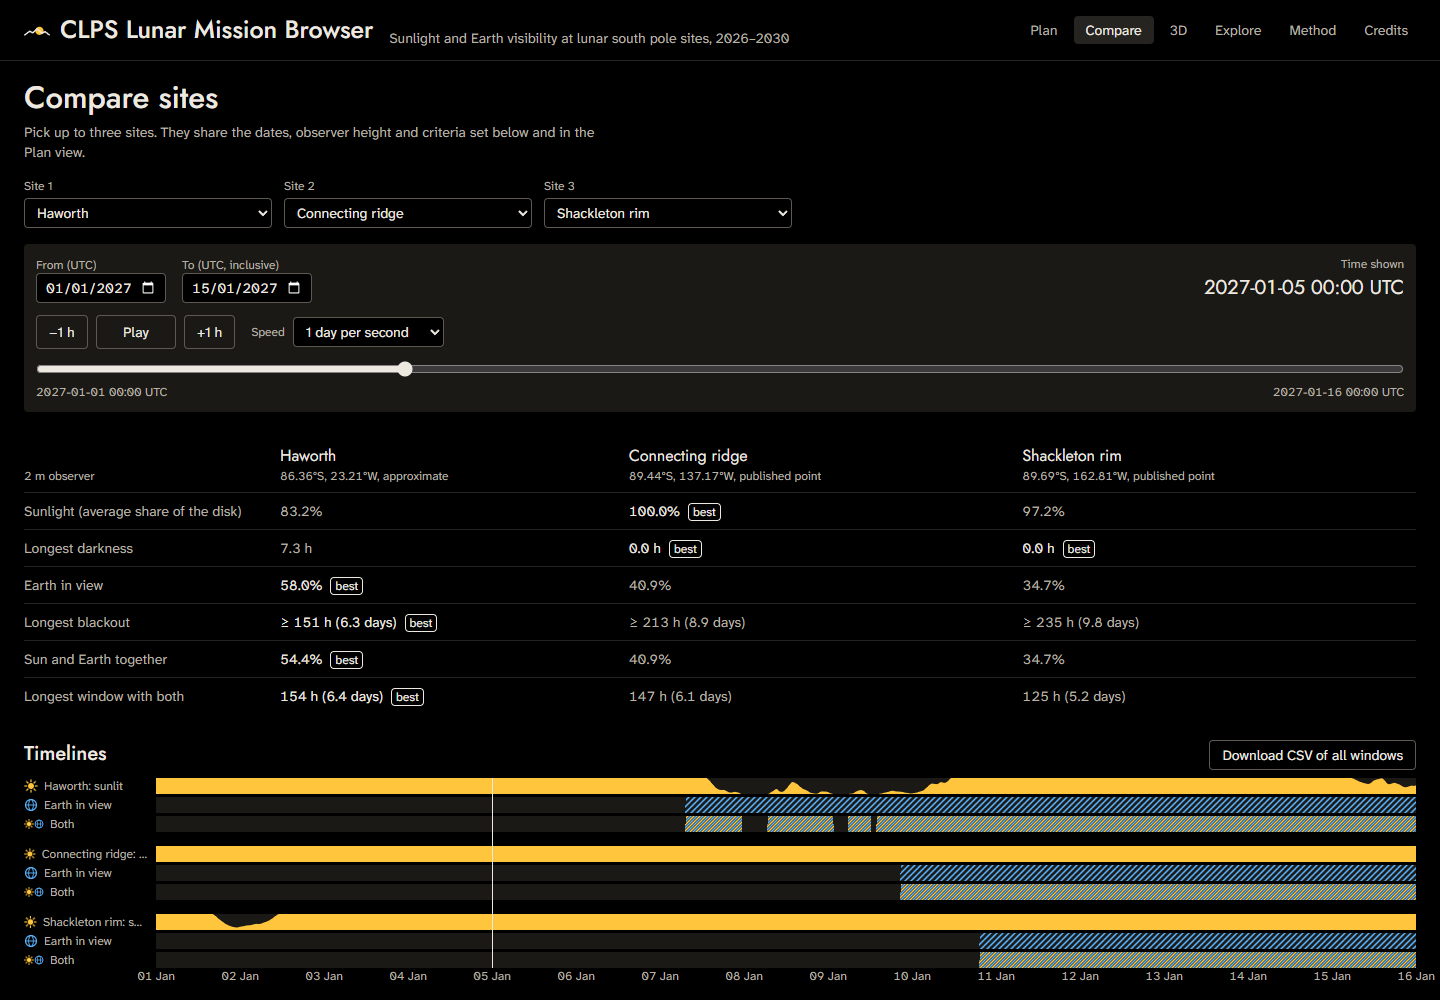
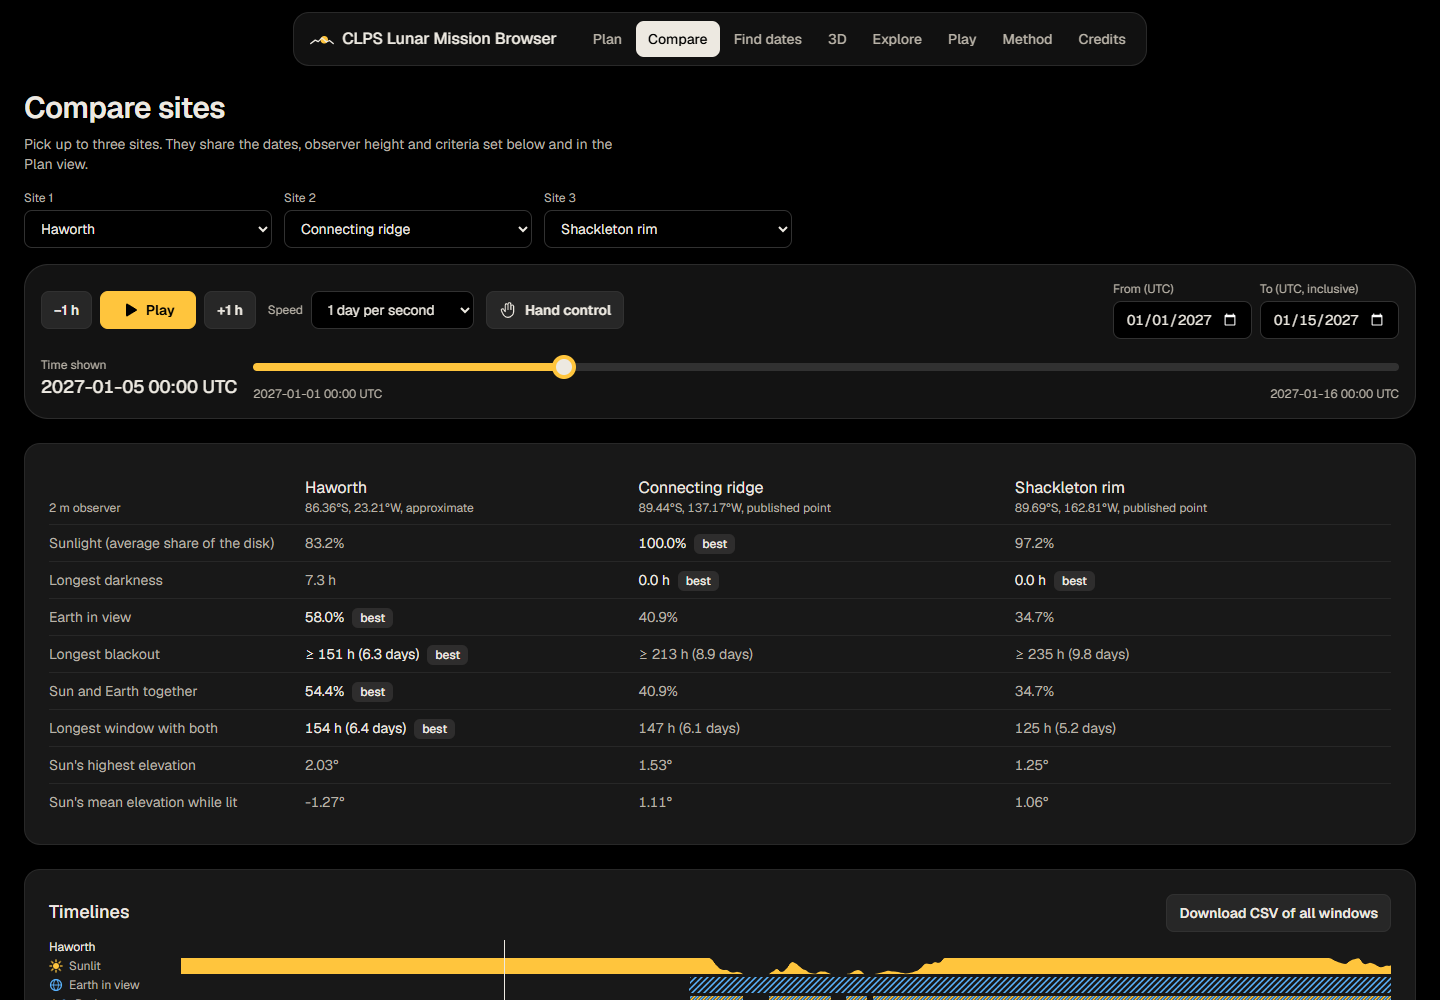
Retake the README screenshots from the redesign; note the deploy
The seven README pictures now show the redesigned site (same pages,
dates and links). The Plan picture includes the new At a glance card,
so its caption and alt text say so. HANDOFF.md records that the
redesign is live in production, and AI_USAGE.md logs the deploy and
the screenshots.

diff --git a/HANDOFF.md b/HANDOFF.md
@@ -1,4 +1,4 @@
-# Handoff: 15 November 2026, 16:40 (UTC+8)
+# Handoff: 15 November 2026, 17:25 (UTC+8)
 
 Written on the second computer (the one with a camera). This file is everything the next Claude session needs; [CLAUDE.md](CLAUDE.md) has the standing rules.
 
@@ -8,7 +8,7 @@ Written on the second computer (the one with a camera). This file is everything 
 - **Link for the "Link to Project Demo" field** (plays in the browser, no sign-in, pinned to commit `48e0071`): https://cdn.jsdelivr.net/gh/BroBYW/CLPS-Lunar-Mission-Website@48e0071/docs/demo/CLPS-demo-30s.mp4. GitHub's own file page won't play a file this size; it only offers a download.
 - Space Apps SI rules: the video has a visible "SI-assisted" watermark and an SI disclosure in its metadata (the voice is Microsoft neural text-to-speech; the music was synthesised in code). Say the same in the submission's SI field.
 - Team **Luosifen**, challenge **Lunar Landing Site Navigator**: https://www.spaceappschallenge.org/2026/find-a-team/luosifen/?tab=project
-- The video shows the redesigned site, so production must serve the redesign (see below).
+- The video shows the redesigned site, which production now serves (see below).
 - The scripts that made it (Playwright screencast, edge-tts, numpy music, ffmpeg) were in a temporary folder and are not in the repository.
 
 ## Deadline
@@ -17,9 +17,10 @@ Written on the second computer (the one with a camera). This file is everything 
 
 ## Where things stand
 
-- GitHub `main` = `dev` = the commit that adds this file. Pushes don't deploy (Vercel isn't linked to GitHub).
-- This commit adds the **redesign** (Geist type, solid buttons, cards, floating nav, docked time bar), the **newcomer changes** (the home button leads into the guided story; the Plan view opens with an "At a glance" card; expert panels fold under "Show more details") and the **fun changes** (a hand control button in story step 1; home cards for hand control and the lunar night game). AI_USAGE.md has the details.
-- Deploy it with a new preview from `web/` and promote that preview with the user's OK; older previews don't have the redesign.
+- GitHub `main` = `dev`. Pushes don't deploy (Vercel isn't linked to GitHub).
+- **Live:** the redesign is in production. Preview `clps-lunar-mission-browser-4yhj4m2gg-alvin-s.vercel.app` (commit `e4d7fab`) was checked and promoted at 17:07 (UTC+8) from Alvin's Vercel account. The live site serves the same build, data files and hand model; no console errors.
+- The README screenshots were retaken from the redesign (same pages, dates and links as before).
+- Commit `e4d7fab` added the **redesign** (Geist type, solid buttons, cards, floating nav, docked time bar), the **newcomer changes** (the home button leads into the guided story; the Plan view opens with an "At a glance" card; expert panels fold under "Show more details") and the **fun changes** (a hand control button in story step 1; home cards for hand control and the lunar night game). AI_USAGE.md has the details.
 - Hand control passed an automated check (MediaPipe's hand photos through a fake camera) but **has not been tried with a real hand** yet.
 
 ## Hand control (new, needs a real camera test)
@@ -74,7 +75,6 @@ Known limits: one hand only; needs reasonable light; detection runs on the main 
 
 ## Next steps, in order
 
-1. Deploy a preview of this commit, check it, and promote it to production with the user's OK. Check the live site afterwards.
-2. The user fills in the Space Apps project page (all in English): the demo link above, the live site as the final project, the SI field, NASA data. Then **Submit for Judging** before 21:00 (UTC+8); the official close is 23:59 local event time.
-3. If there's time: the user tries hand control with a real hand (checklist above) and it gets tuned.
-4. Add rows to AI_USAGE.md for any further AI-assisted work.
+1. The user fills in the Space Apps project page (all in English): the demo link above, the live site as the final project, the SI field, NASA data. Then **Submit for Judging** before 21:00 (UTC+8); the official close is 23:59 local event time.
+2. If there's time: the user tries hand control with a real hand (checklist above) and it gets tuned. Any later change needs a new preview from `web/` (this computer's Vercel CLI is signed in to Alvin's account) and a promote with the user's OK.
+3. Add rows to AI_USAGE.md for any further AI-assisted work.

diff --git a/AI_USAGE.md b/AI_USAGE.md
@@ -37,3 +37,4 @@ This project was built with help from Claude (Anthropic), running in Claude Code
 | 2026-11-15 | Made the site easier for newcomers after the team found it hard to follow: the home page button now leads into the six step guided story (Explore) for everyone, and its last step opens the planner; the Plan view opens with an "At a glance" card that says in plain words how often the Sun is up and Earth is in view, how long the longest darkness lasts and when the best landing window is (with a button that jumps to it), and a link to the tour; the expert panels (metrics, DSN, power, mast, LRO photos, shadow movie, landing and eclipse replays) fold under "Show more details", remembered per browser, with `more=1` in a link to open them. Also ran an automated hand control check, feeding MediaPipe's hand photos through a fake camera: grab, both directions, fist hold and release all behaved as designed; the 3D view runs at about 17 fps while dragging on an Intel Iris Xe | The team asked for these and chose the three changes |
 | 2026-11-15 | Made the site more playful after the team asked whether it was fun yet: the first step of the guided story now has a "Move the Sun with your hand" button next to "Play the month", so hand control is the story's first surprise; the home page ends with two picture cards, "Move the Sun with your hand" (shown only where a camera can be used) and "Survive a lunar night", that open those directly; hand control now works from any view and turns off on the home page. Also fixed new views opening at the previous view's scroll position, and moved the camera panel clear of the skyline chart in the story. Checked typecheck, the unit tests, the production build, and the views at 1440 and 390 px wide | The team asked for this and chose the two changes |
 | 2026-11-15 | Made the 30-second demo video, following the Space Apps demo guide (project, challenge, idea and NASA data, future). Scripted headless Chrome to click through the production build (title card, the dive to the pole, the story's month playing, the Plan view's plain answer, the 3D terrain with moving shadows, an LRO photo against the model, Compare, end card), drew English captions into the page, and joined the shots with ffmpeg into a 29.15 s, 1080p, 30 fps MP4. The voice-over is synthetic: Microsoft's neural voice "Andrew" (the Edge Read Aloud service), cut to the shot timings, with the captions matching each spoken line. The background music is original, synthesised in code for this video (an ambient pad in D major with a plucked arpeggio; no samples or third-party music), and ducks under the voice. Following the Space Apps SI rules, the video carries a visible "SI-assisted" watermark and an SI disclosure in its metadata; the title card names Team Luosifen and the Lunar Landing Site Navigator challenge. Published at docs/demo/CLPS-demo-30s.mp4 and checked to play signed out | The team asked for the video, then for a voice-over and background music (choosing the neural voice), then for it to be hosted on GitHub; they chose the English version for the submission |
+| 2026-11-15 | Deployed the redesign: a new Vercel preview from `web/`, checked against the local build (same JavaScript and CSS, data files and hand model byte for byte), then promoted to production after the user's OK and checked again on the live site. Retook the seven README screenshots from the redesign with headless Chrome on the production build (same pages, dates and links as before; the 3D shots aimed by script), and updated the Plan picture's caption for the new "At a glance" card | Had Alvin approve the Vercel sign-in on his account; approved the promote; asked for the new screenshots |

diff --git a/README.md b/README.md
@@ -36,8 +36,8 @@ Click a picture to open that view on the live site.
 <table>
   <tr>
     <td width="50%" valign="top">
-      <a href="https://clps-lunar-mission-browser.vercel.app/?site=connecting-ridge&amp;from=2027-01-01&amp;to=2027-01-30&amp;t=2027-01-12T06:00Z&amp;h=2"><img src="docs/screenshots/plan.png" alt="The Plan view for the Connecting ridge: the site list, the 3D site map, the horizon panorama with the Sun's and Earth's paths, time controls and the sunlit, Earth and both timeline"></a>
-      <br><b>Plan.</b> The Connecting ridge in January 2027: the horizon panorama with the Sun's and Earth's paths, the site list and map, and the timeline of sunlight and Earth in view.
+      <a href="https://clps-lunar-mission-browser.vercel.app/?site=connecting-ridge&amp;from=2027-01-01&amp;to=2027-01-30&amp;t=2027-01-12T06:00Z&amp;h=2"><img src="docs/screenshots/plan.png" alt="The Plan view for the Connecting ridge: an At a glance card (the Sun up 100% of the time, Earth in view 47%, never dark, and the best time to land), the site list and 3D map, the horizon panorama with the Sun's and Earth's paths, and the time controls"></a>
+      <br><b>Plan.</b> The Connecting ridge in January 2027. The <i>At a glance</i> card answers in plain words, down to the best time to land; below it, the horizon panorama with the Sun's and Earth's paths, beside the site list and map.
     </td>
     <td width="50%" valign="top">
       <a href="https://clps-lunar-mission-browser.vercel.app/?view=compare&amp;site=haworth&amp;cmp=haworth,connecting-ridge,shackleton-rim&amp;from=2027-01-01&amp;to=2027-01-15&amp;t=2027-01-05T00:00Z&amp;h=2"><img src="docs/screenshots/compare.png" alt="The Compare view: Haworth, the Connecting ridge and Shackleton rim side by side, with a table of metrics and aligned timelines"></a>
